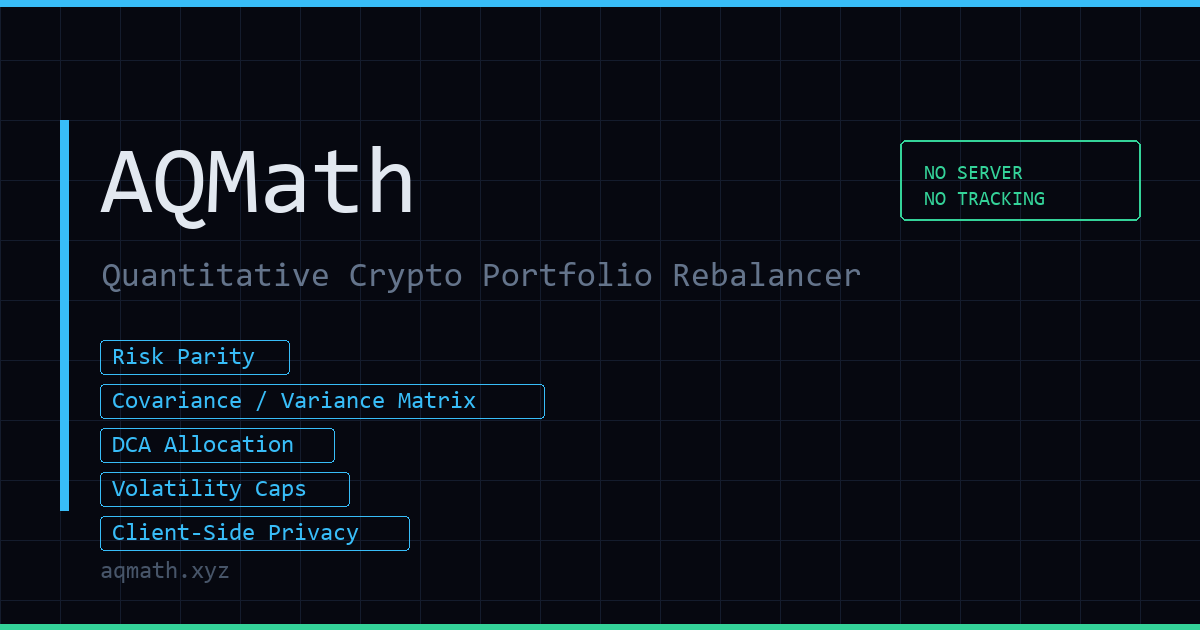
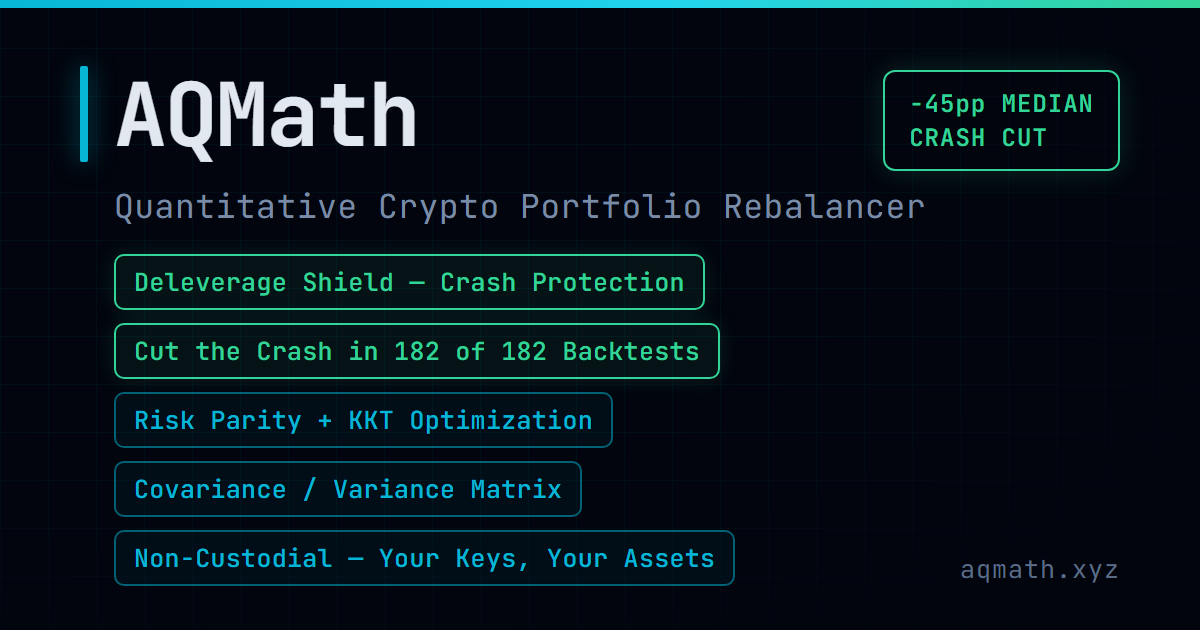
social prewiev

diff --git a/index.html b/index.html
@@ -21,8 +21,8 @@
     <meta property="og:title" content="AQMath — Quantitative Portfolio Rebalancing with Deleverage Shield. Private. Non-Custodial.">
     <meta property="og:description" content="Risk Parity mathematics + Deleverage Shield crash protection for crypto portfolios. Instant de-risk during market crashes. Non-custodial, private, no data collected.">
     <meta property="og:site_name" content="AQMath">
-    <meta property="og:image" content="https://aqmath.xyz/social-preview.png">
-    <meta property="og:image:secure_url" content="https://aqmath.xyz/social-preview.png">
+    <meta property="og:image" content="https://aqmath.xyz/social-preview.png?v=20260721b">
+    <meta property="og:image:secure_url" content="https://aqmath.xyz/social-preview.png?v=20260721b">
     <meta property="og:image:type" content="image/png">
     <meta property="og:image:width" content="1200">
     <meta property="og:image:height" content="630">
@@ -30,7 +30,7 @@
     <meta name="twitter:card" content="summary_large_image">
     <meta name="twitter:title" content="AQMath — Quantitative Portfolio Rebalancing + Deleverage Shield">
     <meta name="twitter:description" content="Risk Parity math + Deleverage Shield crash protection. Auto-de-risk during market crashes. Non-custodial, private, no data collected.">
-    <meta name="twitter:image" content="https://aqmath.xyz/social-preview.png">
+    <meta name="twitter:image" content="https://aqmath.xyz/social-preview.png?v=20260721b">
     <meta name="twitter:image:alt" content="AQMath — Risk Parity Crypto Portfolio Rebalancer with Deleverage Shield">
     <script type="application/ld+json">{"@context":"https://schema.org","@type":"WebApplication","name":"AQMath","url":"https://aqmath.xyz/","description":"Quantitative crypto portfolio rebalancer with Deleverage Modulator drawdown protection. Risk Parity mathematics, DCA optimization, and automatic de-risking during market crashes.","applicationCategory":"FinanceApplication","operatingSystem":"Any","offers":[{"@type":"Offer","name":"Beta Access","price":"0","priceCurrency":"USD","description":"Limited slots, access review required"},{"@type":"Offer","name":"Black Annual Access","price":"999","priceCurrency":"EUR","description":"Annual subscription — €999/year, paid in USDC or EURC"}],"featureList":["Risk Parity Optimization","Deleverage Modulator Drawdown Protection","DCA Distribution","Non-Custodial Privacy","Continuous Auto De-Risk"]}</script>
     <script src="https://cdn.jsdelivr.net/npm/chart.js"></script>